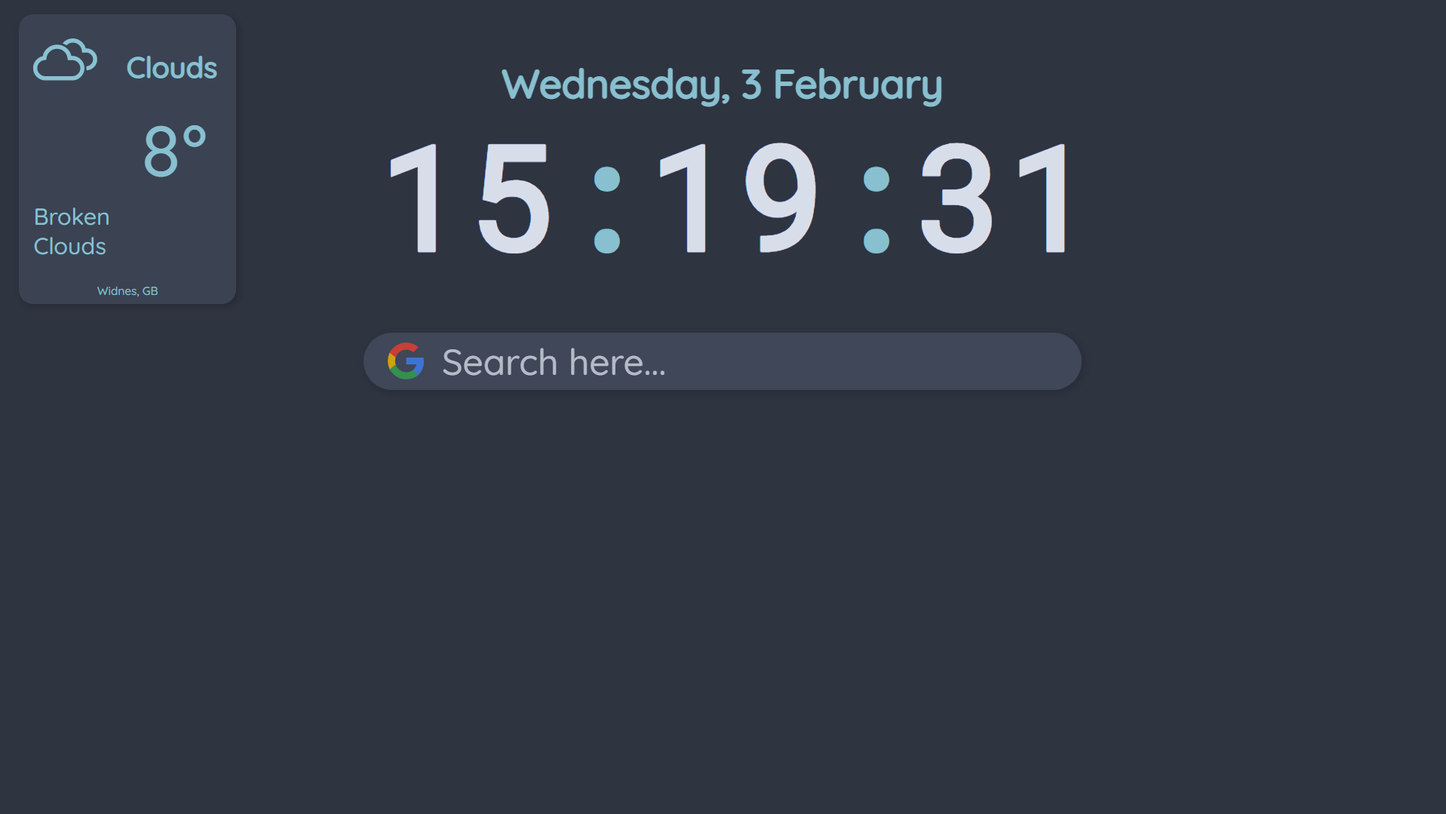
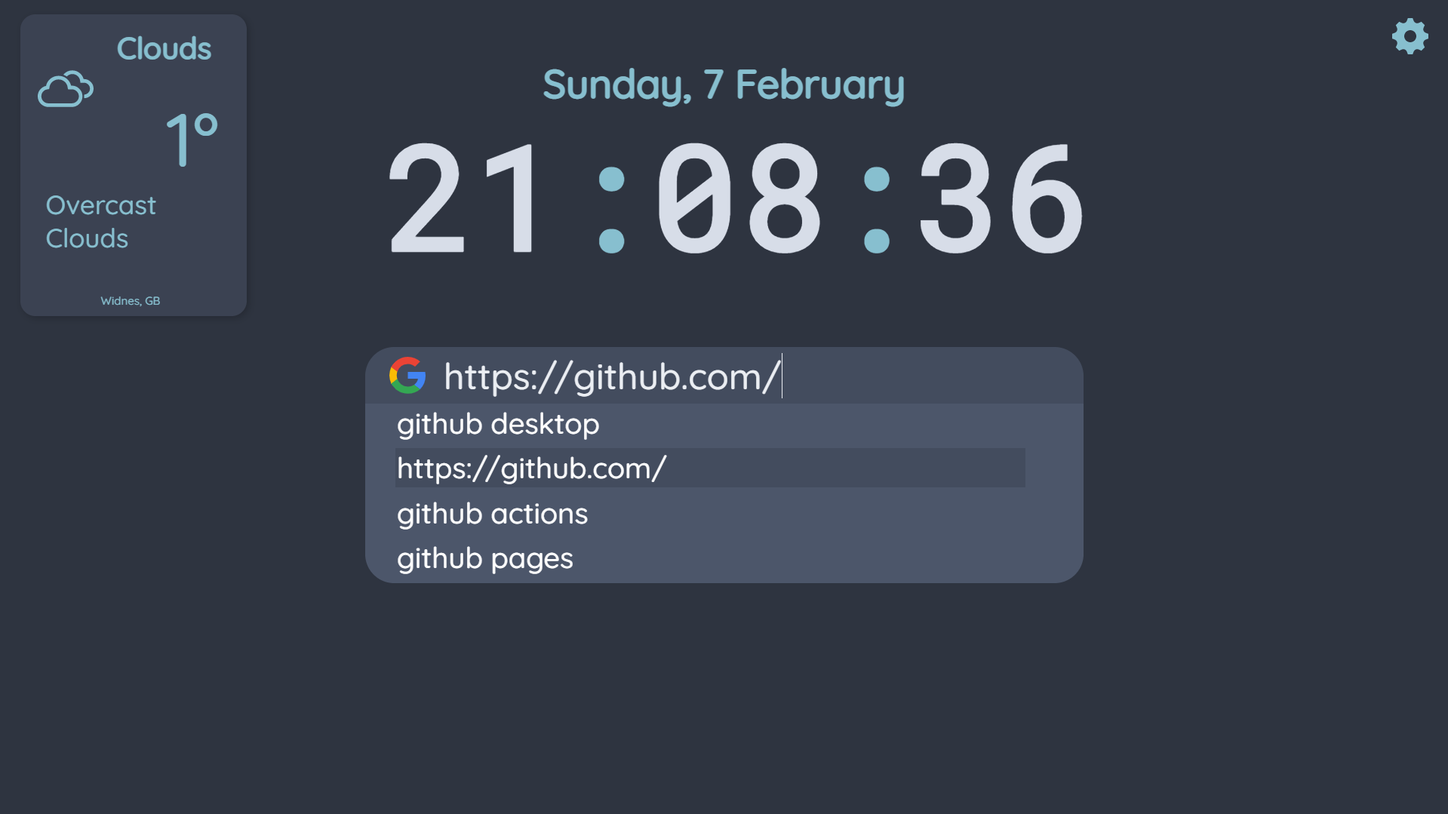
updated readme

diff --git a/dist/js/app.483aa719.js b/dist/js/app.483aa719.js
@@ -1,0 +1,2 @@
+(function(e){function t(t){for(var o,r,l=t[0],u=t[1],i=t[2],g=0,f=[];g<l.length;g++)r=l[g],Object.prototype.hasOwnProperty.call(c,r)&&c[r]&&f.push(c[r][0]),c[r]=0;for(o in u)Object.prototype.hasOwnProperty.call(u,o)&&(e[o]=u[o]);s&&s(t);while(f.length)f.shift()();return a.push.apply(a,i||[]),n()}function n(){for(var e,t=0;t<a.length;t++){for(var n=a[t],o=!0,l=1;l<n.length;l++){var u=n[l];0!==c[u]&&(o=!1)}o&&(a.splice(t--,1),e=r(r.s=n[0]))}return e}var o={},c={app:0},a=[];function r(t){if(o[t])return o[t].exports;var n=o[t]={i:t,l:!1,exports:{}};return e[t].call(n.exports,n,n.exports,r),n.l=!0,n.exports}r.m=e,r.c=o,r.d=function(e,t,n){r.o(e,t)||Object.defineProperty(e,t,{enumerable:!0,get:n})},r.r=function(e){"undefined"!==typeof Symbol&&Symbol.toStringTag&&Object.defineProperty(e,Symbol.toStringTag,{value:"Module"}),Object.defineProperty(e,"__esModule",{value:!0})},r.t=function(e,t){if(1&t&&(e=r(e)),8&t)return e;if(4&t&&"object"===typeof e&&e&&e.__esModule)return e;var n=Object.create(null);if(r.r(n),Object.defineProperty(n,"default",{enumerable:!0,value:e}),2&t&&"string"!=typeof e)for(var o in e)r.d(n,o,function(t){return e[t]}.bind(null,o));return n},r.n=function(e){var t=e&&e.__esModule?function(){return e["default"]}:function(){return e};return r.d(t,"a",t),t},r.o=function(e,t){return Object.prototype.hasOwnProperty.call(e,t)},r.p="";var l=window["webpackJsonp"]=window["webpackJsonp"]||[],u=l.push.bind(l);l.push=t,l=l.slice();for(var i=0;i<l.length;i++)t(l[i]);var s=u;a.push([0,"chunk-vendors"]),n()})({0:function(e,t,n){e.exports=n("56d7")},"0111":function(e,t,n){e.exports=n.p+"img/11n.b9ee5038.svg"},"101c":function(e,t,n){e.exports=n.p+"img/09n.bc016c3b.svg"},"112e":function(e,t,n){"use strict";n("3fc2")},"14c8":function(e,t,n){"use strict";n("2799")},"1cfb":function(e,t,n){"use strict";n("e373")},2200:function(e,t,n){e.exports=n.p+"img/03d.82408b66.svg"},"22d3":function(e,t,n){},2799:function(e,t,n){},"2ac9":function(e,t,n){e.exports=n.p+"img/02n.7c36f2b5.svg"},"2b55":function(e,t,n){"use strict";n("8db9")},"3cbf":function(e,t,n){e.exports=n.p+"img/13d.10a793eb.svg"},"3fc2":function(e,t,n){},5243:function(e,t,n){e.exports=n.p+"img/11d.42698e35.svg"},"56d7":function(e,t,n){"use strict";n.r(t);n("e260"),n("e6cf"),n("cca6"),n("a79d");var o=n("7a23"),c={id:"wrapper",class:"animate__animated animate__fadeIn"};function a(e,t,n,a,r,l){var u=Object(o["l"])("weather"),i=Object(o["l"])("date-and-time"),s=Object(o["l"])("user-settings"),g=Object(o["l"])("google-search-bar");return Object(o["f"])(),Object(o["c"])("div",c,[Object(o["e"])(u),Object(o["e"])(i),Object(o["e"])(s),Object(o["e"])(g)])}n("4fad");var r=n("3835"),l=Object(o["r"])("data-v-2939930c");Object(o["h"])("data-v-2939930c");var u={class:"wrapper"},i={class:"time"};Object(o["g"])();var s=l((function(e,t,n,c,a,r){return Object(o["f"])(),Object(o["c"])("div",u,[Object(o["e"])("h1",{class:"date",style:{color:c.state.config.dateColour,fontFamily:c.state.config.dateFont}},Object(o["m"])(c.state.date.date)+", "+Object(o["m"])(c.state.date.day)+" "+Object(o["m"])(c.state.date.month),5),Object(o["e"])("ul",i,[Object(o["e"])("li",{style:{color:c.state.config.timeColour,fontFamily:c.state.config.timeFont}},Object(o["m"])(c.state.time.hour),5),Object(o["e"])("li",{class:"seperator",style:{color:c.state.config.timeSeperator}},":",4),Object(o["e"])("li",{style:{color:c.state.config.timeColour,fontFamily:c.state.config.timeFont}},Object(o["m"])(c.state.time.minute),5),Object(o["e"])("li",{class:"seperator",style:{color:c.state.config.timeSeperator}},":",4),Object(o["e"])("li",{style:{color:c.state.config.timeColour,fontFamily:c.state.config.timeFont}},Object(o["m"])(c.state.time.second),5)])])})),g=(n("fb6a"),["January","February","March","April","May","June","July","August","September","October","November","December"]),f=["Sunday","Monday","Tuesday","Wednesday","Thursday","Friday","Saturday"],p={dateColour:"#88c0d0",timeSeperator:"#88c0d0",timeColour:"#d8dee9",dateFont:"Quicksand",timeFont:"Roboto Mono"},d={name:"DateAndTime",setup:function(){var e=Object(o["i"])({time:{hour:"",minute:"",second:""},date:{date:"",day:"",month:""},config:JSON.parse(localStorage.getItem("DateAndTime"))});function t(){for(var e={},t=Object.entries(p),n=0,o=t;n<o.length;n++){var c=Object(r["a"])(o[n],2),a=c[0],l=c[1];e[a]=l}localStorage.setItem("DateAndTime",JSON.stringify(e))}function n(){JSON.stringify(e.config)!==localStorage.getItem("DateAndTime")&&(e.config=JSON.parse(localStorage.getItem("DateAndTime")))}function c(){var t=new Date;function n(e){for(var t="",n=0;n<2;n++)t+="0";return(t+e).slice(-2)}e.time.hour="".concat(n(t.getHours())),e.time.minute="".concat(n(t.getMinutes())),e.time.second="".concat(n(t.getSeconds())),e.date.date="".concat(f[t.getDay()]),e.date.day="".concat(t.getDate()),e.date.month="".concat(g[t.getMonth()])}return null==localStorage.getItem("DateAndTime")&&t(),setInterval(n,1e3),n(),setInterval(c,1e3),c(),{state:e}}};n("14c8");d.render=s,d.__scopeId="data-v-2939930c";var b=d,O=(n("9911"),Object(o["r"])("data-v-3699ed9b"));Object(o["h"])("data-v-3699ed9b");var m={class:"searchWrapper"},h={id:"googleSearch",onsubmit:"return false"},j={class:"searchSuggestions"};Object(o["g"])();var y=O((function(e,t,n,c,a,r){return Object(o["f"])(),Object(o["c"])("div",m,[Object(o["e"])("form",h,[Object(o["o"])(Object(o["e"])("input",{id:"googleSearchBar",type:"text",autocomplete:"off",placeholder:"Search here...","onUpdate:modelValue":t[1]||(t[1]=function(e){return c.state.searchText=e}),onInput:t[2]||(t[2]=function(){return c.retrieveQueries&&c.retrieveQueries.apply(c,arguments)}),class:{enabled:c.state.enabled},onKeydown:[t[3]||(t[3]=Object(o["p"])((function(){return c.inputDown&&c.inputDown.apply(c,arguments)}),["down"])),t[4]||(t[4]=Object(o["p"])(Object(o["q"])((function(){return c.inputUp&&c.inputUp.apply(c,arguments)}),["prevent"]),["up"])),t[5]||(t[5]=Object(o["p"])((function(){return c.enterInput&&c.enterInput.apply(c,arguments)}),["enter"]))],ref:"input",style:{backgroundColor:c.state.config.barBg,fontFamily:c.state.config.barFont}},null,38),[[o["n"],c.state.searchText]])]),Object(o["e"])("ul",j,[(Object(o["f"])(!0),Object(o["c"])(o["a"],null,Object(o["k"])(c.state.queries,(function(e,t){return Object(o["f"])(),Object(o["c"])("li",{ref:"arrowKeys",key:e.query,class:{focused:t==c.state.focus}},[Object(o["e"])("a",{href:e.link},Object(o["m"])(e.query),9,["href"])],2)})),128))])])})),v=(n("b64b"),n("d3b7"),n("ac1f"),n("5319"),{barBg:"#434c5e",barFont:"Quicksand"}),C={name:"GoogleSearch",setup:function(){window.onload=function(){document.getElementById("googleSearchBar").focus()};var e=Object(o["i"])({searchText:"",enabled:!1,focus:null,queries:{},config:JSON.parse(localStorage.getItem("GoogleSearchBar"))});function t(){for(var e={},t=Object.entries(v),n=0,o=t;n<o.length;n++){var c=Object(r["a"])(o[n],2),a=c[0],l=c[1];e[a]=l}localStorage.setItem("GoogleSearchBar",JSON.stringify(e))}function n(){JSON.stringify(e.config)!==localStorage.getItem("GoogleSearchBar")&&(e.config=JSON.parse(localStorage.getItem("GoogleSearchBar")))}function c(){e.focus=null,fetch("https://corsanywhere.herokuapp.com/http://suggestqueries.google.com/complete/search?client=chrome&q=".concat(e.searchText)).then((function(e){return e.json()})).then((function(t){t=JSON.parse(JSON.stringify(t));for(var n={},o=0;t[1].length<4?o<t[1].length:o<4;o++)n[o]={query:t[1][o],type:t[4]["google:suggesttype"][o],link:"NAVIGATION"==t[4]["google:suggesttype"][o]?t[1][o]:"https://www.google.co.uk/search?q="+encodeURI(t[1][o])};e.enabled=!!e.searchText.replace(/\s/g,"").length,e.queries=n})).catch((function(e){console.error(e)}))}function a(){e.searchText=e.queries[e.focus].query}function l(){e.searchText.replace(/\s/g,"").length?null==e.focus?(e.focus=0,a()):e.focus<Object.keys(e.queries).length-1?(e.focus++,a()):e.focus==Object.keys(e.queries).length-1&&(e.focus=0,a()):e.focus=null}function u(){e.searchText.replace(/\s/g,"").length?null==e.focus?(e.focus=0,a()):e.focus>0?(e.focus--,a()):0==e.focus&&(e.focus=Object.keys(e.queries).length-1,a()):e.focus=null}function i(){if(null==e.focus){if(!e.searchText.replace(/\s/g,"").length)return;window.open("https://www.google.co.uk/search?q=".concat(e.searchText),"_self")}else window.open(e.queries[e.focus].link,"_self")}return null==localStorage.getItem("GoogleSearchBar")&&(t(),location.reload()),setInterval(n,1e3),n(),{state:e,retrieveQueries:c,inputDown:l,inputUp:u,enterInput:i}}};n("2b55");C.render=y,C.__scopeId="data-v-3699ed9b";var S=C,w=Object(o["e"])("svg",{xmlns:"http://www.w3.org/2000/svg",width:"60",height:"60",viewBox:"0 0 24 24"},[Object(o["e"])("path",{d:"M24 13.616v-3.232c-1.651-.587-2.694-.752-3.219-2.019v-.001c-.527-1.271.1-2.134.847-3.707l-2.285-2.285c-1.561.742-2.433 1.375-3.707.847h-.001c-1.269-.526-1.435-1.576-2.019-3.219h-3.232c-.582 1.635-.749 2.692-2.019 3.219h-.001c-1.271.528-2.132-.098-3.707-.847l-2.285 2.285c.745 1.568 1.375 2.434.847 3.707-.527 1.271-1.584 1.438-3.219 2.02v3.232c1.632.58 2.692.749 3.219 2.019.53 1.282-.114 2.166-.847 3.707l2.285 2.286c1.562-.743 2.434-1.375 3.707-.847h.001c1.27.526 1.436 1.579 2.019 3.219h3.232c.582-1.636.75-2.69 2.027-3.222h.001c1.262-.524 2.12.101 3.698.851l2.285-2.286c-.744-1.563-1.375-2.433-.848-3.706.527-1.271 1.588-1.44 3.221-2.021zm-12 2.384c-2.209 0-4-1.791-4-4s1.791-4 4-4 4 1.791 4 4-1.791 4-4 4z"})],-1),I={key:0,class:"userSettings animate__animated animate__fadeInDown animate__faster"},x={class:"settingsBar"},T=Object(o["e"])("li",null,[Object(o["e"])("h1",{class:"settingsBarTitle"},"Settings")],-1),k=Object(o["e"])("svg",{xmlns:"http://www.w3.org/2000/svg",width:"24",height:"24",viewBox:"0 0 24 24"},[Object(o["e"])("svg",{xmlns:"http://www.w3.org/2000/svg",width:"24",height:"24",viewBox:"0 0 24 24"},[Object(o["e"])("path",{d:"M23 20.168l-8.185-8.187 8.185-8.174-2.832-2.807-8.182 8.179-8.176-8.179-2.81 2.81 8.186 8.196-8.186 8.184 2.81 2.81 8.203-8.192 8.18 8.192z"})])],-1),L={class:"userSettingsFrame"},D={class:"general"},F=Object(o["e"])("h1",{class:"settingsTitle"},"General",-1),W={class:"settingsModule"},B=Object(o["e"])("p",null,"Background Colour:",-1),U=Object(o["e"])("p",null,"Settings Wheel Colour:",-1),J={class:"dateAndTime"},M=Object(o["e"])("h1",{class:"settingsTitle"},"Date and Time",-1),N={class:"settingsModule"},A=Object(o["e"])("p",null,"Date Colour:",-1),_=Object(o["e"])("p",null,"Date Font:",-1),V=Object(o["e"])("p",null,"Time Colour:",-1),q=Object(o["e"])("p",null,"Time Font:",-1),G=Object(o["e"])("p",null,"Time Seperator Colour:",-1),P=Object(o["e"])("br",null,null,-1),Q={class:"weather"},E=Object(o["e"])("h1",{class:"settingsTitle"},"Weather",-1),z={class:"settingsModule"},R=Object(o["e"])("p",null,"Background Colour",-1),K=Object(o["e"])("p",null,"Weather Icon Colour",-1),H=Object(o["e"])("p",null,"Weather Title Colour",-1),X=Object(o["e"])("p",null,"Temperature Colour",-1),Y=Object(o["e"])("p",null,"Metric/Imperial",-1),Z=Object(o["e"])("p",null,"Weather Description Colour",-1),$=Object(o["e"])("p",null,"Location",-1),ee=Object(o["e"])("p",null,"Location Colour",-1),te=Object(o["e"])("p",null,"Font",-1),ne={class:"googleSearchBar"},oe=Object(o["e"])("h1",{class:"settingsTitle"},"Google Search Bar Settings",-1),ce={class:"settingsModule"},ae=Object(o["e"])("p",null,"Search Bar Background",-1),re=Object(o["e"])("p",null,"Search Bar Font",-1);function le(e,t,n,c,a,r){return Object(o["f"])(),Object(o["c"])(o["a"],null,[Object(o["e"])("button",{class:"togglePreferences",onClick:t[1]||(t[1]=function(){return c.toggleClicked&&c.toggleClicked.apply(c,arguments)})},[w]),c.preferencesOn?(Object(o["f"])(),Object(o["c"])("div",I,[Object(o["e"])("ul",x,[T,Object(o["e"])("li",null,[Object(o["e"])("button",{class:"closeSettings",onClick:t[2]||(t[2]=function(){return c.toggleClicked&&c.toggleClicked.apply(c,arguments)})},[k])])]),Object(o["e"])("div",L,[Object(o["e"])("div",D,[F,Object(o["e"])("ul",W,[Object(o["e"])("li",null,[B,Object(o["o"])(Object(o["e"])("input",{type:"color","onUpdate:modelValue":t[3]||(t[3]=function(e){return c.state.config.Main.backgroundColour=e}),onChange:t[4]||(t[4]=function(){return c.updateLocalConfig&&c.updateLocalConfig.apply(c,arguments)}),class:"colourInput"},null,544),[[o["n"],c.state.config.Main.backgroundColour]])]),Object(o["e"])("li",null,[U,Object(o["o"])(Object(o["e"])("input",{type:"color","onUpdate:modelValue":t[5]||(t[5]=function(e){return c.state.config.DateAndTime.dateColour=e}),onChange:t[6]||(t[6]=function(){return c.updateLocalConfig&&c.updateLocalConfig.apply(c,arguments)}),class:"colourInput"},null,544),[[o["n"],c.state.config.DateAndTime.dateColour]])])])]),Object(o["e"])("div",J,[M,Object(o["e"])("ul",N,[Object(o["e"])("li",null,[A,Object(o["o"])(Object(o["e"])("input",{type:"color","onUpdate:modelValue":t[7]||(t[7]=function(e){return c.state.config.DateAndTime.dateColour=e}),onChange:t[8]||(t[8]=function(){return c.updateLocalConfig&&c.updateLocalConfig.apply(c,arguments)}),class:"colourInput"},null,544),[[o["n"],c.state.config.DateAndTime.dateColour]])]),Object(o["e"])("li",null,[_,Object(o["o"])(Object(o["e"])("input",{type:"text","onUpdate:modelValue":t[9]||(t[9]=function(e){return c.state.config.DateAndTime.dateFont=e}),onChange:t[10]||(t[10]=function(){return c.updateLocalConfig&&c.updateLocalConfig.apply(c,arguments)}),class:"textInput"},null,544),[[o["n"],c.state.config.DateAndTime.dateFont]])]),Object(o["e"])("li",null,[V,Object(o["o"])(Object(o["e"])("input",{type:"color","onUpdate:modelValue":t[11]||(t[11]=function(e){return c.state.config.DateAndTime.timeColour=e}),onChange:t[12]||(t[12]=function(){return c.updateLocalConfig&&c.updateLocalConfig.apply(c,arguments)}),class:"colourInput"},null,544),[[o["n"],c.state.config.DateAndTime.timeColour]])]),Object(o["e"])("li",null,[q,Object(o["o"])(Object(o["e"])("input",{type:"text","onUpdate:modelValue":t[13]||(t[13]=function(e){return c.state.config.DateAndTime.timeFont=e}),onChange:t[14]||(t[14]=function(){return c.updateLocalConfig&&c.updateLocalConfig.apply(c,arguments)}),class:"textInput"},null,544),[[o["n"],c.state.config.DateAndTime.timeFont]])]),Object(o["e"])("li",null,[G,Object(o["o"])(Object(o["e"])("input",{type:"color","onUpdate:modelValue":t[15]||(t[15]=function(e){return c.state.config.DateAndTime.timeSeperator=e}),onChange:t[16]||(t[16]=function(){return c.updateLocalConfig&&c.updateLocalConfig.apply(c,arguments)}),class:"colourInput"},null,544),[[o["n"],c.state.config.DateAndTime.timeSeperator]])])]),P]),Object(o["e"])("div",Q,[E,Object(o["e"])("ul",z,[Object(o["e"])("li",null,[R,Object(o["o"])(Object(o["e"])("input",{type:"color","onUpdate:modelValue":t[17]||(t[17]=function(e){return c.state.config.Weather.backgroundColour=e}),onChange:t[18]||(t[18]=function(){return c.updateLocalConfig&&c.updateLocalConfig.apply(c,arguments)}),class:"colourInput"},null,544),[[o["n"],c.state.config.Weather.backgroundColour]])]),Object(o["e"])("li",null,[K,Object(o["o"])(Object(o["e"])("input",{type:"color","onUpdate:modelValue":t[19]||(t[19]=function(e){return c.state.config.Weather.imageColour=e}),onChange:t[20]||(t[20]=function(){return c.updateLocalConfig&&c.updateLocalConfig.apply(c,arguments)}),class:"colourInput"},null,544),[[o["n"],c.state.config.Weather.imageColour]])]),Object(o["e"])("li",null,[H,Object(o["o"])(Object(o["e"])("input",{type:"color","onUpdate:modelValue":t[21]||(t[21]=function(e){return c.state.config.Weather.titleColour=e}),onChange:t[22]||(t[22]=function(){return c.updateLocalConfig&&c.updateLocalConfig.apply(c,arguments)}),class:"colourInput"},null,544),[[o["n"],c.state.config.Weather.titleColour]])]),Object(o["e"])("li",null,[X,Object(o["o"])(Object(o["e"])("input",{type:"color","onUpdate:modelValue":t[23]||(t[23]=function(e){return c.state.config.Weather.tempColour=e}),onChange:t[24]||(t[24]=function(){return c.updateLocalConfig&&c.updateLocalConfig.apply(c,arguments)}),class:"colourInput"},null,544),[[o["n"],c.state.config.Weather.tempColour]])]),Object(o["e"])("li",null,[Y,Object(o["o"])(Object(o["e"])("input",{type:"text","onUpdate:modelValue":t[25]||(t[25]=function(e){return c.state.config.Weather.unit=e}),onChange:t[26]||(t[26]=function(){return c.updateLocalConfig&&c.updateLocalConfig.apply(c,arguments)}),class:"textInput",placeholder:"may need refresh"},null,544),[[o["n"],c.state.config.Weather.unit]])]),Object(o["e"])("li",null,[Z,Object(o["o"])(Object(o["e"])("input",{type:"color","onUpdate:modelValue":t[27]||(t[27]=function(e){return c.state.config.Weather.descColour=e}),onChange:t[28]||(t[28]=function(){return c.updateLocalConfig&&c.updateLocalConfig.apply(c,arguments)}),class:"colourInput"},null,544),[[o["n"],c.state.config.Weather.descColour]])]),Object(o["e"])("li",null,[$,Object(o["o"])(Object(o["e"])("input",{type:"text","onUpdate:modelValue":t[29]||(t[29]=function(e){return c.state.config.Weather.location=e}),onChange:t[30]||(t[30]=function(){return c.updateLocalConfig&&c.updateLocalConfig.apply(c,arguments)}),class:"textInput"},null,544),[[o["n"],c.state.config.Weather.location]])]),Object(o["e"])("li",null,[ee,Object(o["o"])(Object(o["e"])("input",{type:"color","onUpdate:modelValue":t[31]||(t[31]=function(e){return c.state.config.Weather.locationColour=e}),onChange:t[32]||(t[32]=function(){return c.updateLocalConfig&&c.updateLocalConfig.apply(c,arguments)}),class:"colourInput"},null,544),[[o["n"],c.state.config.Weather.locationColour]])]),Object(o["e"])("li",null,[te,Object(o["o"])(Object(o["e"])("input",{type:"text","onUpdate:modelValue":t[33]||(t[33]=function(e){return c.state.config.Weather.font=e}),onChange:t[34]||(t[34]=function(){return c.updateLocalConfig&&c.updateLocalConfig.apply(c,arguments)}),class:"textInput"},null,544),[[o["n"],c.state.config.Weather.font]])])])]),Object(o["e"])("div",ne,[oe,Object(o["e"])("ul",ce,[Object(o["e"])("li",null,[ae,Object(o["o"])(Object(o["e"])("input",{type:"color","onUpdate:modelValue":t[35]||(t[35]=function(e){return c.state.config.GoogleSearchBar.barBg=e}),onChange:t[36]||(t[36]=function(){return c.updateLocalConfig&&c.updateLocalConfig.apply(c,arguments)}),class:"colourInput"},null,544),[[o["n"],c.state.config.GoogleSearchBar.barBg]])]),Object(o["e"])("li",null,[re,Object(o["o"])(Object(o["e"])("input",{type:"text","onUpdate:modelValue":t[37]||(t[37]=function(e){return c.state.config.GoogleSearchBar.barFont=e}),onChange:t[38]||(t[38]=function(){return c.updateLocalConfig&&c.updateLocalConfig.apply(c,arguments)}),class:"textInput"},null,544),[[o["n"],c.state.config.GoogleSearchBar.barFont]])])])])])])):Object(o["d"])("",!0)],64)}n("4160"),n("159b");var ue={name:"UserSettings",setup:function(){var e=Object(o["j"])(!1),t=Object(o["i"])({config:{DateAndTime:JSON.parse(localStorage.getItem("DateAndTime")),Weather:JSON.parse(localStorage.getItem("Weather")),Main:JSON.parse(localStorage.getItem("Main")),GoogleSearchBar:JSON.parse(localStorage.getItem("GoogleSearchBar"))}});function n(){e.value=!e.value}function c(){var e=Object.keys(t.config);e.forEach((function(e){localStorage.setItem(e,JSON.stringify(t.config[e]))}))}return{state:t,toggleClicked:n,preferencesOn:e,updateLocalConfig:c}}};n("daa8");ue.render=le;var ie=ue,se=(n("a4d3"),n("e01a"),Object(o["r"])("data-v-601838f8"));Object(o["h"])("data-v-601838f8");var ge={class:"icon"};Object(o["g"])();var fe=se((function(e,t,n,c,a,r){return Object(o["f"])(),Object(o["c"])("div",{id:"weather",style:{backgroundColor:c.state.config.backgroundColour}},[Object(o["e"])("div",ge,[Object(o["e"])("img",{src:c.state.weatherOutput.icon,alt:"image to show weather",style:{filter:c.toFilter(c.state.config.imageColour)}},null,12,["src"])]),Object(o["e"])("h2",{class:"main",style:{color:c.state.config.titleColour,fontFamily:c.state.config.font}},Object(o["m"])(c.state.weatherOutput.main),5),Object(o["e"])("h2",{class:"temperature",style:{color:c.state.config.tempColour,fontFamily:c.state.config.font}},Object(o["m"])(c.state.weatherOutput.temp)+"°",5),Object(o["e"])("p",{class:"description",style:{color:c.state.config.descColour,fontFamily:c.state.config.font}},Object(o["m"])(c.state.weatherOutput.description),5),Object(o["e"])("p",{class:"location",style:{color:c.state.config.locationColour,fontFamily:c.state.config.font}},Object(o["m"])(c.state.weatherOutput.city)+", "+Object(o["m"])(c.state.weatherOutput.country),5)],4)})),pe=(n("99af"),n("4de4"),n("b0c0"),n("8fed")),de={backgroundColour:"#3b4252",imageColour:"#88c0d0",titleColour:"#88c0d0",tempColour:"#88c0d0",unit:"metric",descColour:"#88c0d0",location:"London",locationColour:"#88c0d0",font:"Quicksand"},be={name:"Weather",setup:function(){var e=Object(o["i"])({weatherOutput:{city:"",country:"",temp:"",main:"",description:"",icon:""},config:JSON.parse(localStorage.getItem("Weather"))});function t(){for(var e={},t=Object.entries(de),n=0,o=t;n<o.length;n++){var c=Object(r["a"])(o[n],2),a=c[0],l=c[1];e[a]=l}localStorage.setItem("Weather",JSON.stringify(e))}function c(e){var t=Object(pe["hexToCSSFilter"])(e);return t["filter"].replace(/;/g,"")}function a(){JSON.stringify(e.config)!==localStorage.getItem("Weather")&&(e.config=JSON.parse(localStorage.getItem("Weather")))}function l(e){return e.replace(/(^\w{1})|(\s+\w{1})/g,(function(e){return e.toUpperCase()}))}function u(){fetch("https://api.openweathermap.org/data/2.5/weather?q=".concat(encodeURI(e.config.location),"&appid=").concat("726d30084c9c84a49cfbe222a43329e8","&units=").concat(e.config.unit)).then((function(e){return e.json()})).then((function(t){Object.assign(e.weatherOutput,{city:t.name},{country:t.sys.country},{temp:Math.floor(t.main.temp)},{main:t.weather[0].main},{description:l(t.weather[0].description)},{icon:n("63cb")("./".concat(t.weather[0].icon,".svg"))})})).catch((function(e){console.error(e)}))}return null==localStorage.getItem("Weather")&&t(),setInterval(a,1e3),a(),setInterval(u,1e4),u(),{state:e,toFilter:c}}};n("112e");be.render=fe,be.__scopeId="data-v-601838f8";var Oe=be,me={backgroundColour:"#2e3440"},he={components:{DateAndTime:b,GoogleSearchBar:S,Weather:Oe,UserSettings:ie},setup:function(){var e=Object(o["i"])({config:JSON.parse(localStorage.getItem("Main"))});function t(){for(var e={},t=Object.entries(me),n=0,o=t;n<o.length;n++){var c=Object(r["a"])(o[n],2),a=c[0],l=c[1];e[a]=l}localStorage.setItem("Main",JSON.stringify(e))}function n(){JSON.stringify(e.config)!==localStorage.getItem("Main")&&(e.config=JSON.parse(localStorage.getItem("Main"))),document.body.style.backgroundColor=e.config.backgroundColour}null==localStorage.getItem("Main")&&t(),setInterval(n,1e3),n()}};n("1cfb");he.render=a;var je=he;Object(o["b"])(je).mount("#app")},"5a60":function(e,t,n){e.exports=n.p+"img/10n.86f986fc.svg"},"5f82":function(e,t,n){e.exports=n.p+"img/50n.7f68f0ff.svg"},"63cb":function(e,t,n){var o={"./01d.svg":"a6f7","./01n.svg":"76d8","./02d.svg":"dc1e","./02n.svg":"2ac9","./03d.svg":"2200","./03n.svg":"be4e","./04d.svg":"ad1a","./04n.svg":"d77d","./09d.svg":"dc5c","./09n.svg":"101c","./10d.svg":"e903","./10n.svg":"5a60","./11d.svg":"5243","./11n.svg":"0111","./13d.svg":"3cbf","./13n.svg":"dcf7","./50d.svg":"f7eb","./50n.svg":"5f82"};function c(e){var t=a(e);return n(t)}function a(e){if(!n.o(o,e)){var t=new Error("Cannot find module '"+e+"'");throw t.code="MODULE_NOT_FOUND",t}return o[e]}c.keys=function(){return Object.keys(o)},c.resolve=a,e.exports=c,c.id="63cb"},"76d8":function(e,t,n){e.exports=n.p+"img/01n.f86c33c4.svg"},"8db9":function(e,t,n){},a6f7:function(e,t,n){e.exports=n.p+"img/01d.4b9869a6.svg"},ad1a:function(e,t,n){e.exports=n.p+"img/04d.2d0410c5.svg"},be4e:function(e,t,n){e.exports=n.p+"img/03n.82408b66.svg"},d77d:function(e,t,n){e.exports=n.p+"img/04n.2d0410c5.svg"},daa8:function(e,t,n){"use strict";n("22d3")},dc1e:function(e,t,n){e.exports=n.p+"img/02d.3237f7da.svg"},dc5c:function(e,t,n){e.exports=n.p+"img/09d.ac93e407.svg"},dcf7:function(e,t,n){e.exports=n.p+"img/13n.10a793eb.svg"},e373:function(e,t,n){},e903:function(e,t,n){e.exports=n.p+"img/10d.8ea1ac4e.svg"},f7eb:function(e,t,n){e.exports=n.p+"img/50d.493be2a8.svg"}});
+//# sourceMappingURL=app.483aa719.js.map

diff --git a/dist/css/app.7196067a.css b/dist/css/app.7196067a.css
@@ -1,0 +1,1 @@
+@import url(https://fonts.googleapis.com/css2?family=Roboto+Mono&display=swap);@import url(https://fonts.googleapis.com/css2?family=Quicksand:wght@500&display=swap);.date[data-v-2939930c]{margin-top:4vw;font-weight:700;font-size:2.75vw;text-align:center}ul.time[data-v-2939930c]{font-family:Roboto Mono;font-weight:650;font-size:10vw;color:#d8dee9;text-align:center;margin-top:-2.5vw;letter-spacing:.1vw}ul.time .seperator[data-v-2939930c]{color:#88c0d0}ul.time li[data-v-2939930c]{display:inline}.wrapper[data-v-2939930c]{z-index:20}input[type=text][data-v-3699ed9b]{position:absolute;width:50%;box-sizing:border-box;border-radius:3rem;font-size:3rem;font-family:Quicksand,sans-serif;color:#eceff4;outline:none;border:none;box-shadow:none;background-image:url(../img/google-icon.14137f89.svg);background-position:2rem;background-repeat:no-repeat;background-size:3rem;padding:.5rem 3rem .5rem 6.5rem;left:50%;margin-right:-50%;transform:translate(-50%);opacity:.8;transition:background-color .4s ease-in-out;transition:opacity .4s ease-in-out;box-shadow:.2rem .2rem 10px rgba(0,0,0,.205)}input[type=text][data-v-3699ed9b]:focus{background-color:#4c566a;opacity:1}input[type=text][data-v-3699ed9b]::-moz-placeholder{color:#d8dee9}input[type=text][data-v-3699ed9b]:-ms-input-placeholder{color:#d8dee9}input[type=text][data-v-3699ed9b]::placeholder{color:#d8dee9}.enabled[data-v-3699ed9b]{border-radius:2.4rem 2.4rem 0 0!important;background-color:#4c566a;box-shadow:0 0 0!important}.searchWrapper[data-v-3699ed9b]{position:relative;margin-top:-6vw}.searchSuggestions[data-v-3699ed9b]{position:absolute;text-align:left;list-style-type:none;font-family:Quicksand;color:#fff;font-size:2vw;background-color:#4c566a;width:50%;box-sizing:border-box;border-radius:0 0 2.4rem 2.4rem;margin-top:75px;left:50%;margin-right:-50%;transform:translate(-50%)}.searchSuggestions li[data-v-3699ed9b]{transition:background-color .1s ease-in-out;-webkit-transition:background-color .1s ease-in-out;margin-right:4vw;margin-bottom:.4vw;padding:.1vw}.searchSuggestions li[data-v-3699ed9b]:not(.focused){background-color:#4c566a}.searchSuggestions li[data-v-3699ed9b]:not(.focused):hover{background-color:#434c5e}a[data-v-3699ed9b]{text-decoration:none;color:#fff}.focused[data-v-3699ed9b]{background-color:#434c5e}.togglePreferences{border:none;padding:0;outline:none;background:none;border-radius:1vw;float:right;margin-right:1vw;vertical-align:bottom;z-index:10;margin-top:-29vw}.togglePreferences svg{width:2.5vw;fill:#88c0d0;transition:fill .3s ease-in-out;transition:transform .3s ease-in-out;-webkit-transition:transform .3s ease-in-out}.togglePreferences svg:hover{fill:#81a1c1;cursor:pointer;transform:rotate(90deg);-webkit-transform:rotate(90deg)}.userSettings{z-index:100;background-color:#3b4252;position:fixed;width:80vw;height:80vh;top:50%;left:50%;margin-top:-40vh;margin-left:-40vw;border-radius:2vw;box-shadow:.2rem .2rem 20px rgba(0,0,0,.205)}@media (min-width:1400px){.userSettings{background-image:url(../img/nord-colours.eab676d3.svg);background-repeat:no-repeat;background-position:100%}}.userSettings ul.settingsBar{display:inline;list-style-type:none}.userSettings ul.settingsBar .settingsBarTitle{font-family:Quicksand;color:#e5e9f0;font-size:3rem;padding-left:2vw;margin-top:0;text-decoration:underline}.userSettings ul.settingsBar .closeSettings{border:none;padding:0;outline:none;cursor:pointer;float:right;background:none;width:1.5vw;height:1.5vw;border-radius:50%;margin-right:.9vw;margin-top:-5.5%}.userSettings ul.settingsBar .closeSettings svg{width:70%;height:70%;fill:#e5e9f0;background-color:#bf616a;border-radius:50%;padding:.3vw;transition:transform .2s ease-in-out;-webkit-transition:transform .2s ease-in-out;transform:fill .2s ease-in-out;transform:background-color .2s ease-in-out;-webkit-transform:background-color .2s ease-in-out}.userSettings ul.settingsBar .closeSettings svg:hover{transform:rotate(90deg);fill:#d8dee9;background-color:#d08770}.userSettings .userSettingsFrame{width:97%;height:82%;overflow-x:scroll;overflow-x:hidden;margin-left:3%;margin-top:-1%}ul.settingsModule{list-style-type:none;font-family:Quicksand;color:#e5e9f0;font-size:1.5rem}ul.settingsModule li{display:flex;justify-content:flex-start;align-items:center}.settingsTitle{font-family:Quicksand;color:#e5e9f0}.colourInput{background:none;width:50px;height:50px}.colourInput,.textInput{border:none;outline:none;margin-left:2%}.textInput{font-family:Quicksand;background-color:#4c566a;color:#e5e9f0;width:15rem;height:2rem;font-size:1.7rem}#weather[data-v-601838f8]{width:300px;height:400px;border-radius:20px;box-shadow:.2rem .2rem 10px rgba(0,0,0,.205);position:absolute;margin-top:-3vw;margin-left:1vw;display:flex;flex-direction:column;flex-wrap:wrap;justify-content:flex-start}@media (max-width:1150px){#weather[data-v-601838f8]{opacity:0}}#weather .icon img[data-v-601838f8]{width:100px;margin-left:10px;margin-top:50px;order:0}#weather .main[data-v-601838f8]{margin-top:-135px;margin-right:-110px;font-size:40px;order:1;text-align:right}#weather .temperature[data-v-601838f8]{font-size:100px;margin-top:0;margin-right:-120px;font-weight:300;order:2;text-align:right}#weather .description[data-v-601838f8]{margin-top:230px;font-size:35px;margin-left:-110px;order:3;text-align:left;word-wrap:break-word;max-width:200px}#weather .location[data-v-601838f8]{margin-top:370px;font-size:15px;text-align:center;float:center;order:4;margin-left:-275px}::-webkit-scrollbar{width:10px}::-webkit-scrollbar-track{background:#434c5e;border-radius:10px}::-webkit-scrollbar-thumb{background:#88c0d0;border-radius:10px}::-webkit-scrollbar-thumb:hover{background:#81a1c1}body{position:relative}google-search-bar{margin-top:-10vh}user-settings{position:fixed}

diff --git a/dist/index.html b/dist/index.html
@@ -1,1 +1,1 @@
-<!DOCTYPE html><html lang="en"><head><meta charset="utf-8"><meta http-equiv="X-UA-Compatible" content="IE=edge"><meta name="viewport" content="width=device-width,initial-scale=1"><link rel="icon" href="favicon.ico"><link rel="stylesheet" href="https://cdnjs.cloudflare.com/ajax/libs/animate.css/4.1.1/animate.min.css"><title>New Tab</title><link href="css/app.f3acf70a.css" rel="preload" as="style"><link href="js/app.4b6c7efa.js" rel="preload" as="script"><link href="js/chunk-vendors.af6624f6.js" rel="preload" as="script"><link href="css/app.f3acf70a.css" rel="stylesheet"></head><body><noscript><strong>We're sorry but nord-landing doesn't work properly without JavaScript enabled. Please enable it to continue.</strong></noscript><div id="app"></div><script src="js/chunk-vendors.af6624f6.js"></script><script src="js/app.4b6c7efa.js"></script></body></html>
+<!DOCTYPE html><html lang="en"><head><meta charset="utf-8"><meta http-equiv="X-UA-Compatible" content="IE=edge"><meta name="viewport" content="width=device-width,initial-scale=1"><link rel="icon" href="favicon.ico"><link rel="stylesheet" href="https://cdnjs.cloudflare.com/ajax/libs/animate.css/4.1.1/animate.min.css"><title>New Tab</title><link href="css/app.7196067a.css" rel="preload" as="style"><link href="js/app.483aa719.js" rel="preload" as="script"><link href="js/chunk-vendors.af6624f6.js" rel="preload" as="script"><link href="css/app.7196067a.css" rel="stylesheet"></head><body><noscript><strong>We're sorry but nord-landing doesn't work properly without JavaScript enabled. Please enable it to continue.</strong></noscript><div id="app"></div><script src="js/chunk-vendors.af6624f6.js"></script><script src="js/app.483aa719.js"></script></body></html>

diff --git a/src/components/GoogleSearchBar.vue b/src/components/GoogleSearchBar.vue
@@ -67,8 +67,10 @@
 					JSON.stringify(googleSearchBar)
 				);
 			}
-			if (localStorage.getItem('GoogleSearchBar') == null)
+			if (localStorage.getItem('GoogleSearchBar') == null) {
 				setDefaultStyles(); // sets styles to default if they aren't in localstorage
+				location.reload();
+			}
 
 			function updateStyles() {
 				if (

diff --git a/README.md b/README.md
@@ -1,59 +1,75 @@
 # Nord Landing Page
 
-## Demos
+![New Tab page with search suggestions](github-assets/1.png)
 
-![New Tab page](github-assets/1.png)  
-![New Tab page with search suggestions](github-assets/2.png)
+![Feature rich settings](github-assets/2.png)
+![New tab page](github-assets/3.png)
 
 ## What is this?
 
-This is a simple new tab page using the [nord colour palette](https://www.nordtheme.com/), an arctic, north-bluish color palette which is clean, sleek and readable. This new tab page aims to be simple and minimalist, but still functional. If you find a bug or would like a new feature make sure to create an issue. If you add any new features, feel free to send a pull request over :)
+This is a simple new tab page using the [nord colour palette](https://www.nordtheme.com/) by default. This is an arctic, north-bluish color palette which is clean, sleek and readable. This new tab page aims to be simple and minimalist, but still functional. It's also completely customisable. If you need to change anything else it's really easy to edit the source code and build again. If you find a bug or would like a new feature make sure to create an issue. If you add any new features, feel free to send a pull request over :)
 
 ## Features
 
--   Weather
--   Time and date
--   Google search bar
--   Google Search suggestions
--   Very easy to edit and customise
+-   Boasts a minimalist look with a nice Nord theme by default.
+-   Completely customisable
+-   Minimalist weather, search bar and date/time
+-   Free and open sourced
+-   Ability to control search bar with arrow keys
 
 ### There is much more to come soon.
 
-## Installation
+## Add to Browser and Configure
 
-Configuration options inside of the UI will come soon. Currently, the only way to configure is to repository, editing variables and building, but this is very simple.
+~~Configuration options inside of the UI will come soon. Currently, the only way to configure is to repository, editing variables and building, but this is very simple.~~
+
+As of 7/2/2021 in brower settings now exist, which are stored inside of your browser's `localStorage`.
+
+Instructions to add:
+Inside of your browser settings, add https://nord-landing.herokuapp.com/index.html as your new tab page. If this option does not exist, you can use an extension such as [New Tab Redirect](https://chrome.google.com/webstore/detail/new-tab-redirect/icpgjfneehieebagbmdbhnlpiopdcmna/related), which is the one i use. You can edit all of the prefs by clicking the gear.
+
+To Build and edit source code:
 
 1. Clone this repository, either by downloading it as a .zip file or using [git](https://git-scm.com/) and running
-   `git clone https://github.com/ahsan-a/nord-landing-page.git`.
+
+`git clone https://github.com/ahsan-a/nord-landing-page.git`.
+
 2. Download and install [node.js](https://nodejs.org/en/). After, open the folder in your terminal inside of the project's folder and run `npm install` to install all required node modules. Keep this folder open for now.
+
 3. Go to [Openweathermap](https://openweathermap.org/), create a new account and generate an API key.
-4. Create a new file called `.env` and add the following values:
-    - `VUE_APP_WEATHERAPIKEY`
-    - `VUE_APP_LOCATION`
-    - `VUE_APP_UNIT`
-5. Set `VUE_APP_WEATHERAPIKEY` to your openweathermap API key, set your location to your city/town and set your unit to either `metric` or `imperial`, depending on whether you use Celcius or Fahrenheit. An example `.env` file could look like this:
+
+4. Create a new file called `.env` and add the following value:
+
+-   `VUE_APP_WEATHERAPIKEY`
+
+5. Set `VUE_APP_WEATHERAPIKEY` to your openweathermap API key. An example `.env` file could look like this:
 
 ```
+
 VUE_APP_WEATHERAPIKEY=1234567890abcdef
-VUE_APP_LOCATION=London
-VUE_APP_UNIT=metric
+
 ```
 
-6. Go back into your terminal and run `npm run serve` to see if everything is working correctly. If everything is working correctly your weather and your location should appear in the box on the top left.
-7. Run `npm run build` to build your project. Your new build should be stored inside of `/dist/index.html`. Set this as your new tab page in your browser settings or using an extension such as [New Tab Redirect](https://chrome.google.com/webstore/detail/new-tab-redirect/icpgjfneehieebagbmdbhnlpiopdcmna/related).
+6. Go back into your terminal and run `npm run serve` to see if everything is working correctly.
 
-If you would like to customise, it's as easy as changing the source code.
+7. After you've finished editing, run `npm run build` to build your project. Your new build should be stored inside of `/dist/index.html`. Set this as your new tab page in your browser settings or using an extension such as [New Tab Redirect](https://chrome.google.com/webstore/detail/new-tab-redirect/icpgjfneehieebagbmdbhnlpiopdcmna/related).
 
 ## Changelog
 
+-   Added user preferences after 3 painful days. (7/2/2021, 21:00 GMT)
 -   Fixed search bar suggestions showing split from search bar, and lay down foundation for options UI (5/2/2021, 20:16 GMT)
+
 -   Added arrow key functionality on google search bar, similar to functionality on actual google search bar (4/2/2021 2:30 GMT)
+
 -   Added ability to hold down up/down arrow and prevented default behaviour on google searh box (4/2/2021, 17:38 GMT)
 
-## Updating
+## Roadmap
 
-Since there isn't an updating feature yet, just pull from the master branch and recompile.
+-   [x] Control search bar with arrow keys
+-   [x] Add user preferences
+-   [ ] Add bookmarks and a quick acess page
+-   [ ] Maybe add frequently used/recently visited
 
 ## Contact
 
-If you need to contact me feel free to add me on discord: ahsan#4403
+Feel free to add me on discord, it's ahsan#4403 :D
